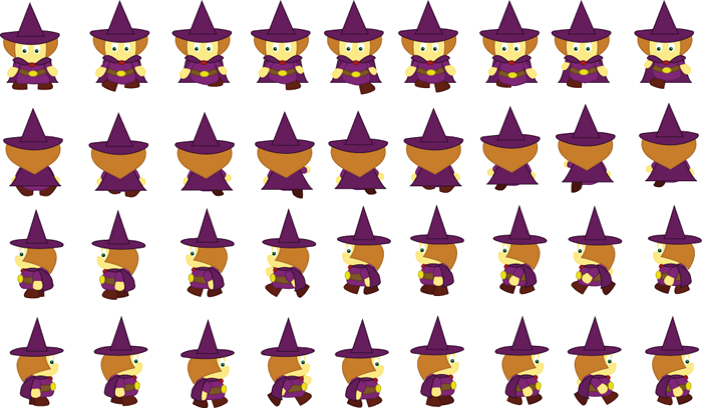
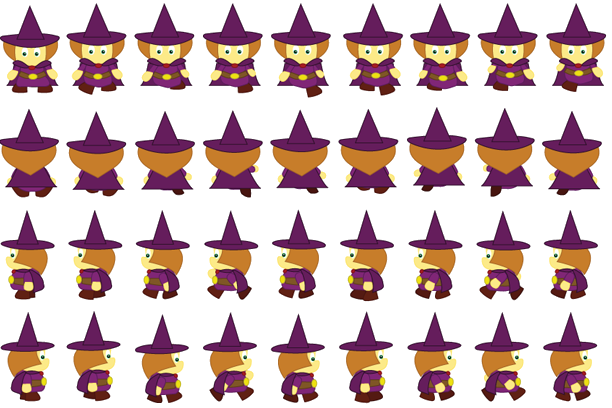
Arrumando a imagem dos persoangens para trabalhar com a bruxa e com guerreiro.

diff --git a/Engine_2d/src/engine/util/Constantes.java b/Engine_2d/src/engine/util/Constantes.java
@@ -3,18 +3,9 @@ package engine.util;
 import java.applet.AudioClip;
 import java.awt.image.BufferedImage;
 import java.io.BufferedReader;
-import java.io.File;
-import java.io.IOException;
-import java.io.InputStream;
 import java.io.InputStreamReader;
-import java.net.URL;
 
 import javax.imageio.ImageIO;
-import javax.sound.sampled.AudioInputStream;
-import javax.sound.sampled.AudioSystem;
-import javax.sound.sampled.Clip;
-import javax.sound.sampled.LineUnavailableException;
-import javax.sound.sampled.UnsupportedAudioFileException;
 
 import res.resource.Link;
 import engine.MoveAbleGameObject;

diff --git a/Engine_2d/src/engine/Particulas/PersonagemPrincipal.java b/Engine_2d/src/engine/Particulas/PersonagemPrincipal.java
@@ -16,8 +16,8 @@ public class PersonagemPrincipal extends Personagem {
 
 	public PersonagemPrincipal(BufferedImage _imagem, int _x, int _y, Color _Cor) {
 		super(_imagem, _x, _y, _Cor);
-		sizeX = 80;
-		sizeY = 97;
+		sizeX = 55;
+		sizeY = 95;
 	}
 
 	@Override
